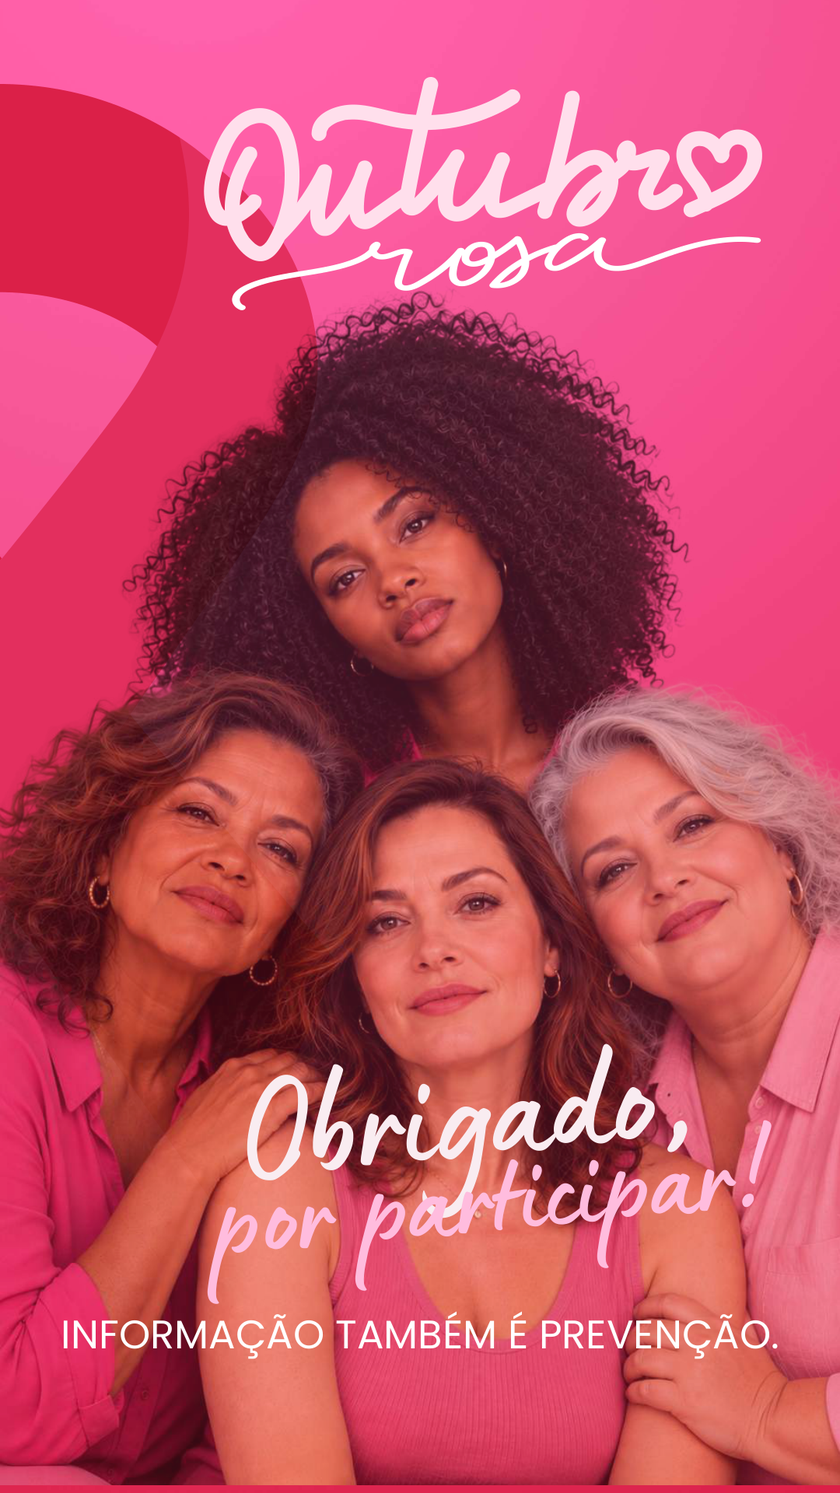
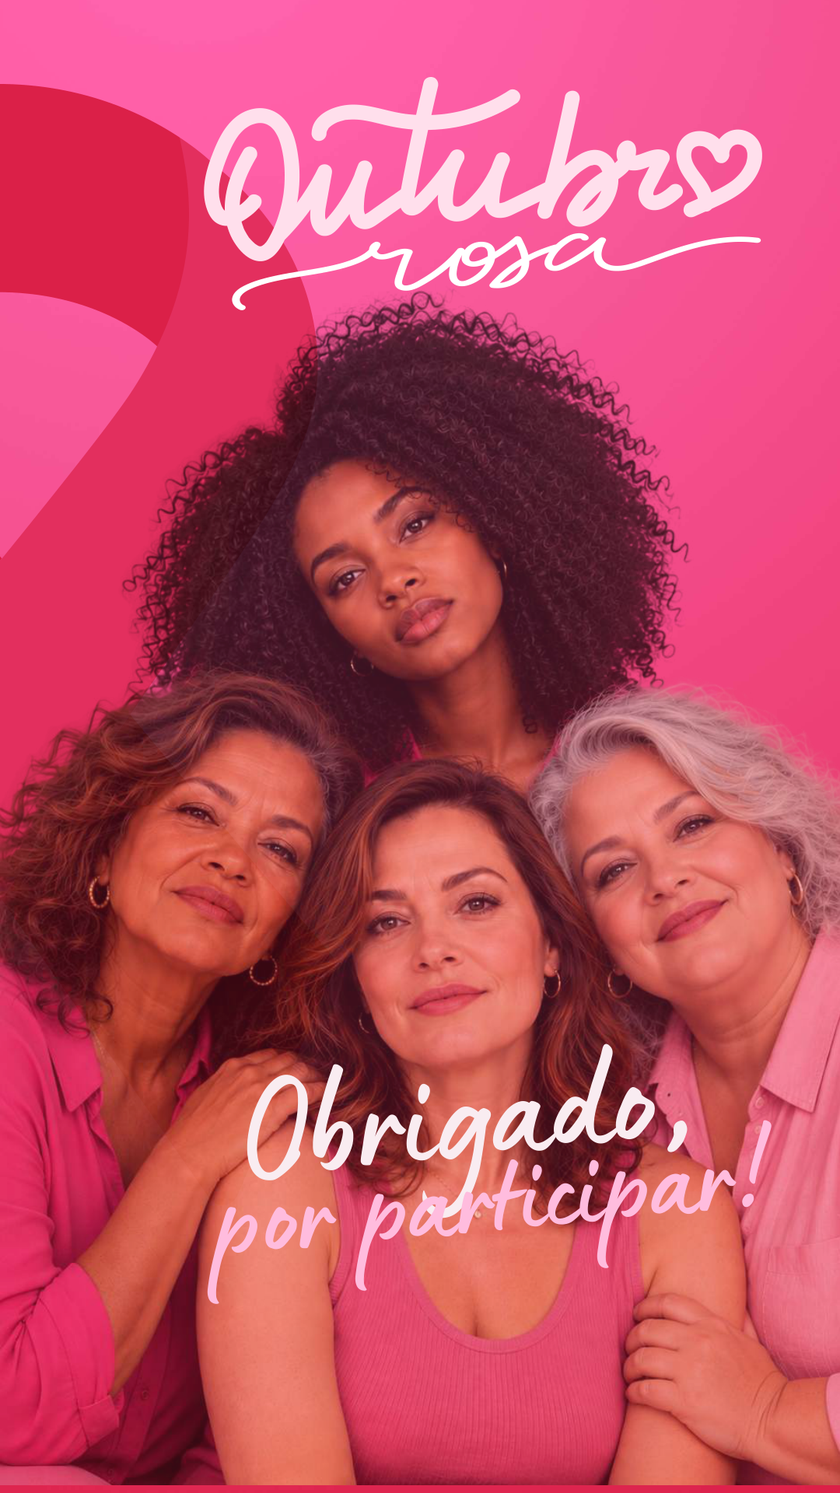
feat: add selfie countdown and decorative parallax with safe layouts

Changed region(s): [[0.0611, 0.875, 0.9167, 0.9062]]

diff --git a/src/style.css b/src/style.css
@@ -1,20 +1,25 @@
-:root { font-family: 'Poppins', sans-serif; color: white; background: #240c19; font-synthesis: none; }
+:root { font-family: 'Poppins', sans-serif; color: white; background: #240c19; font-synthesis: none; --ease-out: cubic-bezier(.23,1,.32,1); }
 * { box-sizing: border-box; }
 html, body { margin: 0; width: 100%; height: 100%; overflow: hidden; }
 body { display: grid; place-items: center; min-height: 100dvh; }
 #totem { position: relative; width: min(100vw, 56.25vh); width: min(100vw, 56.25dvh); aspect-ratio: 9 / 16; container-type: inline-size; background: #ee2865; overflow: hidden; isolation: isolate; }
-#artwork { position: absolute; inset: 0; width: 100%; height: 100%; object-fit: contain; user-select: none; pointer-events: none; }
-#content { position: absolute; inset: 0; }
+#artwork { position: absolute; inset: 0; width: 100%; height: 100%; object-fit: contain; user-select: none; pointer-events: none; z-index: 0; }
+.depth-scene { position: absolute; inset: 0; overflow: hidden; pointer-events: none; z-index: 1; }
+.depth-layer { position: absolute; transition: transform 240ms var(--ease-out); pointer-events: none; }
+.depth-halo { width: 65cqw; height: 65cqw; top: -27cqw; right: -22cqw; border-radius: 50%; background: radial-gradient(circle,#fff6,transparent 68%); }
+.depth-ring { width: 42cqw; height: 42cqw; top: 48cqw; right: -34cqw; border: .3cqw solid #ffffff30; border-radius: 50%; box-shadow: 0 0 0 5cqw #ffffff05; }
+.depth-petal { width: 35cqw; height: 35cqw; top: 105cqw; left: -30cqw; border: .3cqw solid #ffffff25; border-radius: 50% 50% 8% 50%; }
+#content { position: absolute; inset: 0; z-index: 2; }
 button { font: inherit; color: inherit; background: transparent; cursor: pointer; touch-action: manipulation; -webkit-tap-highlight-color: transparent; transition: transform 150ms cubic-bezier(.23,1,.32,1), background-color 150ms ease; }
 button:active { transform: scale(.97); }
-button:focus-visible { outline: 4px solid white; outline-offset: 6px; box-shadow: 0 0 0 9px #871d48; }
+button:focus-visible, a:focus-visible { outline: .45cqw solid #67102e; outline-offset: .5cqw; }
 .start { position: absolute; left: 41%; top: 89.7%; width: 51%; height: 8%; border: 0; border-radius: 7cqw; }
 .question-copy { position: absolute; top: 37.5%; left: 5.4%; right: 5.4%; text-align: center; }
 h1, p { margin: 0; font-size: 5.7cqw; line-height: 1.42; font-weight: 400; text-wrap: pretty; }
 p { margin-top: 3.7cqw; }
 strong { font-weight: 700; }
 .next { position: absolute; left: 42.4%; top: 85.2%; width: 47%; height: 6.2%; border: .5cqw solid white; border-radius: 5cqw; font-size: 4.6cqw; }
-.hand { position: absolute; width: 11cqw; height: 11cqw; right: -2cqw; bottom: -4.2cqw; background: #e72460; border-radius: 40%; }
+.hand { position: absolute; width: 8cqw; height: 8cqw; right: -2cqw; bottom: -2cqw; background: #e72460; border-radius: 40%; pointer-events: none; }
 nav { position: absolute; inset: auto 5.4% 2.3%; display: flex; align-items: center; justify-content: space-between; gap: 2cqw; }
 nav button { border: 0; padding: 2cqw 1cqw; min-height: 8.5cqw; font-size: 2.8cqw; }
 .progress { display: flex; gap: 1.7cqw; }
@@ -22,28 +27,35 @@ nav button { border: 0; padding: 2cqw 1cqw; min-height: 8.5cqw; font-size: 2.8cq
 .progress i.current { background: white; }
 .restart { position: absolute; bottom: 2%; left: 22%; width: 56%; min-height: 8cqw; font-size: 3cqw; background: #94173dcc; border: .3cqw solid #ffffffa6; border-radius: 6cqw; }
 .restart span { margin-left: 1cqw; }
-.end-actions { position: absolute; bottom: .3%; left: 16%; width: 68%; display: grid; gap: .5cqw; }
-.selfie-choice { min-height: 8.3cqw; font-size: 3.4cqw; font-weight: 700; background: #92173ee6; border: .3cqw solid white; border-radius: 6cqw; }
-.end-home { min-height: 7cqw; font-size: 2.5cqw; border: 0; }
-.selfie-panel { position: absolute; inset: 0; display: flex; flex-direction: column; align-items: center; gap: 3cqw; padding: 10cqw 7cqw 5cqw; text-align: center; background: linear-gradient(160deg,#fb5598,#d81851); }
+.end-actions { position: absolute; bottom: 1%; left: 10%; width: 80%; display: grid; gap: .7cqw; }
+.end-actions .end-message { font-size: 3cqw; text-align: center; line-height: 1.4; margin: 0; text-transform: uppercase; }
+.selfie-choice { min-height: 8cqw; font-size: 3.4cqw; font-weight: 700; background: #92173ef2; border: .3cqw solid white; border-radius: 6cqw; }
+.end-home { min-height: 6cqw; font-size: 2.5cqw; border: 0; }
+.selfie-panel { position: absolute; inset: 0; display: grid; grid-template-rows: auto minmax(0,1fr) auto; gap: 3cqw; padding: 7cqw 7cqw 4cqw; text-align: center; background: linear-gradient(160deg,#fb5598,#d81851); }
+.selfie-header { min-width: 0; }
+.selfie-body { min-height: 0; display: flex; flex-direction: column; align-items: center; gap: 2.8cqw; padding: 1cqw 0; }
+.selfie-body > * { flex-shrink: 0; }
+.selfie-footer { min-height: 8cqw; }
 .selfie-eyebrow { font-size: 2.7cqw; letter-spacing: .6cqw; font-weight: 700; }
-.selfie-panel h1 { font-size: 7cqw; font-weight: 700; line-height: 1.15; margin-top: 4cqw; }
-.selfie-panel .selfie-description { margin: 0; font-size: 3.6cqw; line-height: 1.5; }
-.camera-frame { position: relative; width: 100%; aspect-ratio: 3/4; max-height: 78cqw; overflow: hidden; background: #51172f; border-radius: 4cqw; border: .35cqw solid #ffffff88; margin-top: 2cqw; }
+.selfie-panel h1 { font-size: 6cqw; font-weight: 700; line-height: 1.18; margin: 2.6cqw 0; }
+.selfie-panel .selfie-description { margin: 0; font-size: 3.4cqw; line-height: 1.5; }
+.camera-frame { position: relative; width: 100%; flex: 1 1 auto; min-height: 20cqw; max-height: 82cqw; overflow: hidden; background: #51172f; border-radius: 4cqw; border: .35cqw solid #ffffff88; }
 .camera-frame video { width: 100%; height: 100%; object-fit: contain; transform: scaleX(-1); }
 .camera-loading { position: absolute; inset: 0; display: grid; place-items: center; font-size: 3.5cqw; }
-.selfie-photo { width: 100%; height: 72cqw; object-fit: contain; background: #51172f; border-radius: 4cqw; margin-top: 2cqw; }
+.selfie-photo { width: 100%; height: 0; min-height: 20cqw; max-height: 72cqw; flex: 1 1 auto; object-fit: contain; background: #51172f; border-radius: 4cqw; }
 .selfie-primary, .selfie-secondary { width: 100%; min-height: 10cqw; padding: 2cqw 3cqw; border-radius: 6cqw; font-size: 3.5cqw; border: .3cqw solid white; text-align: center; }
 .selfie-primary { color: #90153d; background: white; font-weight: 700; text-decoration: none; display: grid; place-items: center; }
 .selfie-primary:disabled { opacity: .55; cursor: wait; }
-.selfie-cancel { margin-top: auto; min-height: 9cqw; border: 0; font-size: 3cqw; }
+.selfie-cancel { width: 100%; min-height: 8cqw; border: 0; font-size: 3cqw; }
 .selfie-panel .selfie-note { margin: 0; font-size: 2.6cqw; line-height: 1.5; }
-.selfie-thumbnail { width: 27cqw; height: 27cqw; object-fit: contain; border: .35cqw solid #ffffffa6; border-radius: 3cqw; background: #51172f; }
-.selfie-qr { width: 53cqw; height: 53cqw; border-radius: 3cqw; }
+.selfie-thumbnail { width: 23cqw; height: 23cqw; object-fit: contain; border: .35cqw solid #ffffffa6; border-radius: 3cqw; background: #51172f; }
+.selfie-qr { width: 53cqw; height: 53cqw; min-height: 25cqw; flex: 0 1 auto; object-fit: contain; border-radius: 3cqw; }
 .selfie-panel .selfie-return { font-size: 2.9cqw; margin: 0; }
-.selfie-error { font-size: 25cqw; margin: 8cqw 0; }
-.mobile-download { justify-content: center; }
-.mobile-download .selfie-photo { height: 80cqw; }
+.selfie-error { font-size: 24cqw; flex: 1 1 auto; display: grid; place-items: center; min-height: 30cqw; }
+.mobile-download .selfie-photo { max-height: 90cqw; }
+.capture-countdown { position: absolute; inset: 0; display: flex; flex-direction: column; justify-content: center; align-items: center; gap: 2cqw; background: #210b1e33; pointer-events: none; }
+.capture-count { display: grid; place-items: center; width: 23cqw; height: 23cqw; border-radius: 50%; border: .35cqw solid #fff9; background: #8f173ee6; font-size: 13cqw; font-weight: 700; line-height: 1; font-variant-numeric: tabular-nums; }
+.capture-instruction { font-size: 3cqw; padding: 1.5cqw 3cqw; border-radius: 5cqw; background: #51172fe6; }
 .sr-only { position: absolute; width: 1px; height: 1px; padding: 0; margin: -1px; overflow: hidden; clip: rect(0,0,0,0); white-space: nowrap; border: 0; }
 @media (hover: hover) and (pointer: fine) { .next:hover, .restart:hover { background-color: #b7134380; } }
-@media (prefers-reduced-motion: reduce) { button { transition: none; } button:active { transform: none; } }
+@media (prefers-reduced-motion: reduce) { button, .depth-layer { transition: none; } button:active { transform: none; } }

diff --git a/src/selfie.js b/src/selfie.js
@@ -2,6 +2,7 @@ import QRCode from 'qrcode';
 
 const SHARE_SECONDS = 45;
 const SESSION_MS = 90000;
+const CAPTURE_SECONDS = 5;
 const escapeHTML = value => value.replace(/[&<>"']/g, char => ({ '&': '&amp;', '<': '&lt;', '>': '&gt;', '"': '&quot;', "'": '&#39;' }[char]));
 
 export function startSelfie({ container, goHome }) {
@@ -13,6 +14,13 @@ export function startSelfie({ container, goHome }) {
   let timer;
   let interval;
   let request;
+  let captureTimer;
+  let captureInterval;
+
+  const clearCaptureCountdown = () => {
+    clearTimeout(captureTimer);
+    clearInterval(captureInterval);
+  };
 
   const stopCamera = () => {
     stream?.getTracks().forEach(track => track.stop());
@@ -23,7 +31,7 @@ export function startSelfie({ container, goHome }) {
     timer = setTimeout(goHome, SESSION_MS);
   };
   const shell = (title, description, body) => {
-    container.innerHTML = `<section class="selfie-panel"><span class="selfie-eyebrow">OUTUBRO ROSA</span><h1>${title}</h1><p class="selfie-description">${description}</p>${body}<button class="selfie-cancel" data-selfie="exit">Voltar ao início</button></section>`;
+    container.innerHTML = `<section class="selfie-panel"><header class="selfie-header"><span class="selfie-eyebrow">OUTUBRO ROSA</span><h1>${title}</h1><p class="selfie-description">${description}</p></header><div class="selfie-body">${body}</div><footer class="selfie-footer"><button class="selfie-cancel" data-selfie="exit">Voltar ao início</button></footer></section>`;
   };
   const error = (message, retry) => {
     shell('Vamos tentar de novo?', message, `<div class="selfie-error" role="alert">${retry === 'camera' ? '◎' : '♡'}</div><button class="selfie-primary" data-selfie="${retry}">Tentar novamente</button>`);
@@ -32,6 +40,7 @@ export function startSelfie({ container, goHome }) {
 
   async function openCamera() {
     const current = ++generation;
+    clearCaptureCountdown();
     stopCamera();
     armIdle();
     shell('Um registro de carinho.', 'Permita o acesso à câmera e prepare seu sorriso.', '<div class="camera-frame"><video autoplay muted playsinline aria-label="Prévia da webcam"></video><span class="camera-loading" role="status">Abrindo a câmera…</span></div><button class="selfie-primary" data-selfie="capture" disabled>Tirar foto</button><p class="selfie-note">A foto só será enviada se você escolher gerar o QR Code. O link ficará disponível por 15 minutos.</p>');
@@ -61,7 +70,34 @@ export function startSelfie({ container, goHome }) {
     }
   }
 
-  async function capture() {
+  function capture() {
+    const video = container.querySelector('video');
+    const button = container.querySelector('[data-selfie="capture"]');
+    if (!video?.videoWidth || !button || button.disabled) return;
+    const current = generation;
+    button.disabled = true;
+    button.textContent = 'Prepare seu sorriso…';
+    const countdown = document.createElement('div');
+    countdown.className = 'capture-countdown';
+    countdown.innerHTML = `<span class="capture-count" aria-hidden="true">${CAPTURE_SECONDS}</span><span class="capture-instruction" role="status">Foto em ${CAPTURE_SECONDS} segundos</span>`;
+    container.querySelector('.camera-frame').append(countdown);
+    const deadline = Date.now() + CAPTURE_SECONDS * 1000;
+    let displayed = CAPTURE_SECONDS;
+    captureInterval = setInterval(() => {
+      const remaining = Math.max(1, Math.ceil((deadline - Date.now()) / 1000));
+      if (remaining === displayed) return;
+      displayed = remaining;
+      countdown.querySelector('.capture-count').textContent = remaining;
+      countdown.querySelector('.capture-instruction').textContent = `Foto em ${remaining} ${remaining === 1 ? 'segundo' : 'segundos'}`;
+    }, 100);
+    captureTimer = setTimeout(() => {
+      clearCaptureCountdown();
+      if (!disposed && current === generation) capturePhoto();
+    }, CAPTURE_SECONDS * 1000);
+    armIdle();
+  }
+
+  async function capturePhoto() {
     const video = container.querySelector('video');
     if (!video?.videoWidth) return;
     container.querySelector('[data-selfie="capture"]').disabled = true;
@@ -93,7 +129,7 @@ export function startSelfie({ container, goHome }) {
     const timeout = setTimeout(() => request?.abort(), 25000);
     try {
       const response = await fetch('/api/selfie', { method: 'POST', headers: { 'Content-Type': 'image/jpeg' }, body: photo, signal: request.signal });
-      if (!response.ok) throw new Error(response.status === 503 ? 'O armazenamento das selfies ainda não foi configurado. Avise a equipe do evento.' : 'Não foi possível enviar sua foto. Verifique a conexão e tente novamente.');
+      if (!response.ok) throw new Error(response.status === 503 ? 'O download da selfie está indisponível no momento. Peça ajuda à equipe do evento.' : 'Não foi possível enviar sua foto. Verifique a conexão e tente novamente.');
       const result = await response.json();
       if (disposed) return;
       const url = new URL(location.origin);
@@ -127,6 +163,7 @@ export function startSelfie({ container, goHome }) {
   return () => {
     disposed = true;
     generation++;
+    clearCaptureCountdown();
     stopCamera();
     request?.abort();
     clearTimeout(timer);
@@ -138,15 +175,15 @@ export function startSelfie({ container, goHome }) {
 }
 
 export async function showSharedSelfie({ container, id }) {
-  container.innerHTML = '<section class="selfie-panel mobile-download"><span class="selfie-eyebrow">OUTUBRO ROSA</span><h1>Sua selfie, seu momento.</h1><p class="selfie-description" role="status">Carregando sua foto…</p></section>';
+  container.innerHTML = '<section class="selfie-panel mobile-download"><header class="selfie-header"><span class="selfie-eyebrow">OUTUBRO ROSA</span><h1>Sua selfie, seu momento.</h1><p class="selfie-description" role="status">Carregando sua foto…</p></header><div class="selfie-body"></div><footer class="selfie-footer"></footer></section>';
   const panel = container.querySelector('section');
   try {
     const response = await fetch(`/api/selfie?id=${encodeURIComponent(id)}`);
     if (!response.ok) throw new Error(response.status === 410 || response.status === 404 ? 'O link desta selfie expirou ou a foto não está mais disponível.' : 'Não foi possível carregar sua selfie. Tente atualizar a página.');
     const imageURL = URL.createObjectURL(await response.blob());
-    panel.innerHTML = `<span class="selfie-eyebrow">OUTUBRO ROSA</span><h1>Um carinho para guardar.</h1><p class="selfie-description">Informação também é prevenção.</p><img class="selfie-photo" src="${imageURL}" alt="Sua selfie do Outubro Rosa" /><a class="selfie-primary" href="/api/selfie?id=${encodeURIComponent(id)}&download=1" download="outubro-rosa-selfie.jpg">Baixar minha selfie</a><p class="selfie-note">No iPhone, se a foto abrir em outra tela, use Compartilhar → Salvar Imagem.</p>`;
+    panel.innerHTML = `<header class="selfie-header"><span class="selfie-eyebrow">OUTUBRO ROSA</span><h1>Um carinho para guardar.</h1><p class="selfie-description">Informação também é prevenção.</p></header><div class="selfie-body"><img class="selfie-photo" src="${imageURL}" alt="Sua selfie do Outubro Rosa" /><a class="selfie-primary" href="/api/selfie?id=${encodeURIComponent(id)}&download=1" download="outubro-rosa-selfie.jpg">Baixar minha selfie</a><p class="selfie-note">No iPhone, se a foto abrir em outra tela, use Compartilhar → Salvar Imagem.</p></div><footer class="selfie-footer"></footer>`;
     window.addEventListener('pagehide', () => URL.revokeObjectURL(imageURL), { once: true });
   } catch (e) {
-    panel.innerHTML = `<span class="selfie-eyebrow">OUTUBRO ROSA</span><h1>Esse momento passou.</h1><p class="selfie-description" role="alert">${escapeHTML(e.message)}</p>`;
+    panel.innerHTML = `<header class="selfie-header"><span class="selfie-eyebrow">OUTUBRO ROSA</span><h1>Esse momento passou.</h1><p class="selfie-description" role="alert">${escapeHTML(e.message)}</p></header><div class="selfie-body"></div><footer class="selfie-footer"></footer>`;
   }
 }

diff --git a/src/main.js b/src/main.js
@@ -2,6 +2,7 @@ import '@fontsource/poppins/latin-400.css';
 import '@fontsource/poppins/latin-700.css';
 import './style.css';
 import { startSelfie, showSharedSelfie } from './selfie.js';
+import { createDepthMotion } from './depth.js';
 
 const questions = [
   ['O câncer de mama sempre causa dor?', 'NÃO.', 'Em fases iniciais, pode não causar dor nem outros sintomas.'],
@@ -15,6 +16,7 @@ const questions = [
 const totem = document.querySelector('#totem');
 const content = document.querySelector('#content');
 const artwork = document.querySelector('#artwork');
+const depth = createDepthMotion(totem);
 const hand = '<svg class="hand" viewBox="0 0 64 64" fill="none" aria-hidden="true"><path d="m24 33-10-14c-3-4-8 0-5 4l17 25-8-3c-6-2-8 4-3 7l16 9c3 2 6 2 9 0l16-11c3-2 3-6 1-9L45 23c-3-4-7-1-5 3l-3-5c-3-4-7-1-5 3l-3-4c-3-4-8-1-5 3l7 11" stroke="currentColor" stroke-width="3" stroke-linecap="round" stroke-linejoin="round"/></svg>';
 let screen = 0;
 let timer;
@@ -39,13 +41,14 @@ function show(next, keyboard = false) {
   closeSelfie?.();
   closeSelfie = undefined;
   content.getAnimations().forEach(animation => animation.cancel());
+  depth.changeScreen(keyboard);
   screen = Math.max(0, Math.min(7, next));
   totem.dataset.screen = screen === 0 ? 'welcome' : screen === 7 ? 'end' : 'question';
   artwork.src = `/assets/${screen === 0 ? 'abertura' : screen === 7 ? 'encerramento' : 'perguntas'}.png`;
   if (screen === 0) {
     content.innerHTML = '<h1 class="sr-only">Outubro Rosa. Se toca, mulher! Você conhece o Outubro Rosa?</h1><button class="start" data-action="next" aria-label="Toque na tela para começar"><span class="sr-only">Toque na tela!</span></button>';
   } else if (screen === 7) {
-    content.innerHTML = '<h1 class="sr-only">Obrigado por participar! Informação também é prevenção.</h1><div class="end-actions"><button class="selfie-choice" data-action="selfie">Tirar uma selfie <span aria-hidden="true">◎</span></button><button class="end-home" data-action="home">Não, obrigado · Voltar ao início</button></div>';
+    content.innerHTML = '<h1 class="sr-only">Obrigado por participar!</h1><div class="end-actions"><p class="end-message">Informação também é prevenção.</p><button class="selfie-choice" data-action="selfie">Tirar uma selfie <span aria-hidden="true">◎</span></button><button class="end-home" data-action="home">Não, obrigado · Voltar ao início</button></div>';
   } else {
     const [question, verdict, answer] = questions[screen - 1];
     content.innerHTML = `<div class="question-copy"><h1>${question}</h1><p><strong>${verdict}</strong> ${answer}</p></div><button class="next" data-action="next" aria-label="${screen === 6 ? 'Concluir participação' : 'Próxima pergunta'}">Clique aqui!${hand}</button><nav aria-label="Navegação das perguntas"><button class="back" data-action="back" aria-label="Voltar à tela anterior">← <span>Voltar</span></button><span class="progress" aria-label="Pergunta ${screen} de 6">${questions.map((_, i) => `<i class="${i + 1 === screen ? 'current' : ''}" aria-hidden="true"></i>`).join('')}</span><button class="home" data-action="home" aria-label="Voltar ao início">Início <span aria-hidden="true">↗</span></button></nav>`;
@@ -64,6 +67,7 @@ content.addEventListener('click', event => {
   const action = button.dataset.action;
   if (action === 'selfie') {
     clearTimeout(timer);
+    totem.dataset.screen = 'selfie';
     closeSelfie = startSelfie({ container: content, goHome: () => show(0) });
     return;
   }

diff --git a/src/depth.js b/src/depth.js
@@ -1,0 +1,39 @@
+// Only decoration moves; text, hit targets, photo framing and QR codes stay still.
+export function createDepthMotion(totem) {
+  const reduce = matchMedia('(prefers-reduced-motion: reduce)');
+  const pointer = matchMedia('(hover: hover) and (pointer: fine)');
+  const layers = [...totem.querySelectorAll('.depth-layer')];
+  let frame;
+
+  const reset = () => {
+    cancelAnimationFrame(frame);
+    layers.forEach(layer => { layer.style.transform = ''; layer.getAnimations().forEach(a => a.cancel()); });
+  };
+
+  totem.addEventListener('pointermove', event => {
+    if (reduce.matches || !pointer.matches || event.pointerType !== 'mouse') return;
+    cancelAnimationFrame(frame);
+    frame = requestAnimationFrame(() => {
+      const rect = totem.getBoundingClientRect();
+      const x = (event.clientX - rect.left) / rect.width - .5;
+      const y = (event.clientY - rect.top) / rect.height - .5;
+      layers.forEach((layer, index) => {
+        const distance = rect.width * (index + 1) * .018;
+        layer.style.transform = `translate3d(${x * distance}px, ${y * distance}px, 0)`;
+      });
+    });
+  }, { passive: true });
+  totem.addEventListener('pointerleave', reset);
+  reduce.addEventListener('change', reset);
+
+  return {
+    changeScreen(keyboard = false) {
+      reset();
+      if (reduce.matches || keyboard) return;
+      layers.forEach((layer, index) => layer.animate([
+        { transform: `translateY(${(index + 1) * 9}px)`, opacity: .3 },
+        { transform: 'translateY(0)', opacity: 1 },
+      ], { duration: 240, easing: 'cubic-bezier(0.23,1,0.32,1)' }));
+    },
+  };
+}

diff --git a/index.html b/index.html
@@ -10,6 +10,7 @@
   <body>
     <main id="totem" aria-label="Outubro Rosa">
       <img id="artwork" src="/assets/abertura.png" alt="" draggable="false" />
+      <div class="depth-scene" aria-hidden="true"><div class="depth-layer depth-halo"></div><div class="depth-layer depth-ring"></div><div class="depth-layer depth-petal"></div></div>
       <section id="content" aria-live="polite" aria-atomic="true"></section>
     </main>
     <noscript>Ative o JavaScript para navegar pelas telas educativas do Outubro Rosa.</noscript>

diff --git a/README.md b/README.md
@@ -30,9 +30,11 @@ Para habilitar o download das selfies:
 2. Confirme que a conexão adicionou `BLOB_READ_WRITE_TOKEN` às variáveis do projeto para Production (e Preview se for testar nesse ambiente). Nunca exponha esse token no frontend ou adicione um prefixo `VITE_`.
 3. Faça um novo deploy para que a função receba a variável.
 4. No navegador do totem, permita o uso da webcam. Ela precisa estar conectada ao computador que executa o navegador. Use Chrome ou Edge atualizado em HTTPS.
-5. Percorra as perguntas, escolha **Tirar uma selfie**, tire a foto e confirme **Gerar QR Code para baixar**. Leia o QR com um celular e confira o download. Esse teste real depende do armazenamento configurado e de uma webcam física.
+5. Percorra as perguntas, escolha **Tirar uma selfie**, toque em **Tirar foto** e aguarde a contagem de **5 segundos** para se posicionar. Confira a foto e confirme **Gerar QR Code para baixar**. Leia o QR com um celular e confira o download. Esse teste real depende do armazenamento configurado e de uma webcam física.
 
 O Blob pode gerar cobrança conforme o uso na sua conta Vercel. Sem a variável, as telas educativas e a captura local continuam disponíveis; o envio apresenta uma mensagem de configuração pendente.
+
+Se o QR não é gerado e o download aparece indisponível, confira a variável `BLOB_READ_WRITE_TOKEN` em **Settings → Environment Variables**, no ambiente do deploy que está sendo usado. Conectar o Blob depois de um deploy não injeta a variável naquele deploy: execute **Redeploy** após conectar. Se a conexão do Storage oferecer outro prefixo para a variável, escolha o prefixo padrão `BLOB`.
 
 Para testar a API, execute `npm test`. `npm run dev` e `npm run preview` servem somente o frontend: a função é executada pelo Vercel. Testes locais da API com credenciais reais exigem um ambiente Vercel configurado.
 
@@ -49,6 +51,10 @@ Após 90 segundos sem interação nas perguntas, a sessão retorna à abertura. 
 Apenas após confirmar **Gerar QR Code para baixar**, a imagem JPEG (até 2 MB) é enviada ao armazenamento privado. O QR contém um link com identificador aleatório, que permite a quem o possui baixar a foto por **15 minutos**, inclusive após o totem voltar ao início. A API bloqueia links vencidos, não envia a URL privada do Blob ao navegador e impede cache da foto.
 
 A expiração do link não é uma exclusão agendada: fotos vencidas são excluídas quando alguém tenta acessar o link ou quando a próxima selfie é enviada. Se não houver novos acessos/uploads, os arquivos ficam no armazenamento privado, sem acesso pela API; ao encerrar o evento, exclua os arquivos da pasta `outubro-rosa-selfies/` pelo painel Storage. Não existe galeria pública e nenhum outro dado do visitante é solicitado.
+
+### Movimento e disposição
+
+As camadas decorativas têm um efeito de profundidade/parallax nas trocas de tela e no movimento do mouse, com movimento reduzido quando solicitado pelo navegador. Textos, botões, enquadramento da câmera e QR Code não acompanham o mouse. As telas da selfie reservam áreas separadas para cabeçalho, foto/conteúdo, ações e rodapé. A contagem pode ser cancelada por **Voltar ao início** ou Escape, desligando a câmera e cancelando a captura pendente.
 
 ## Conteúdo e arte
 
